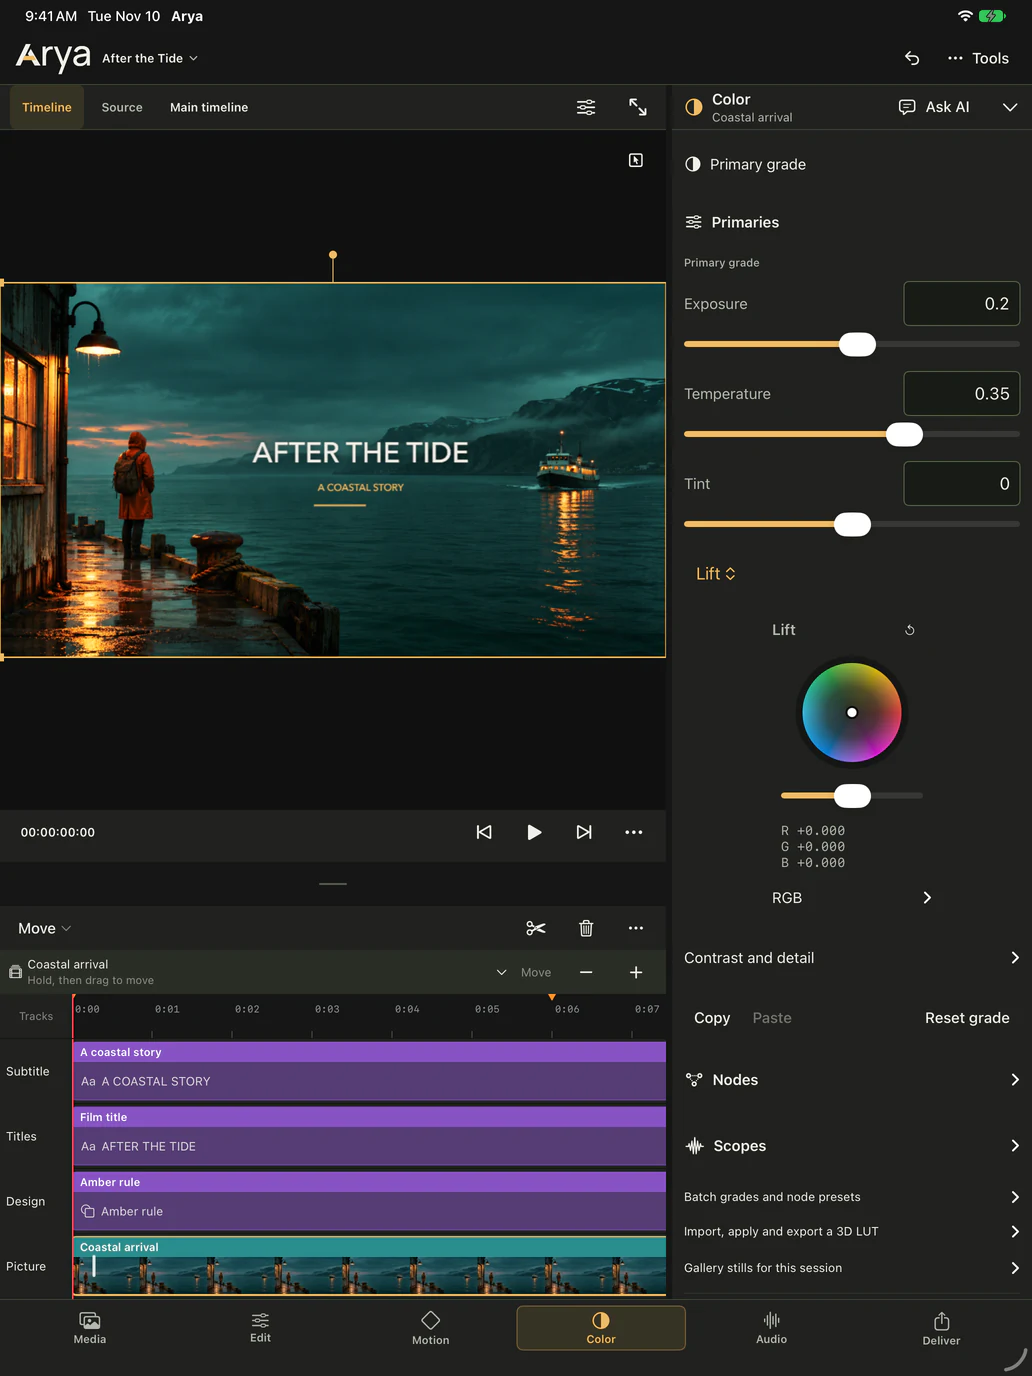
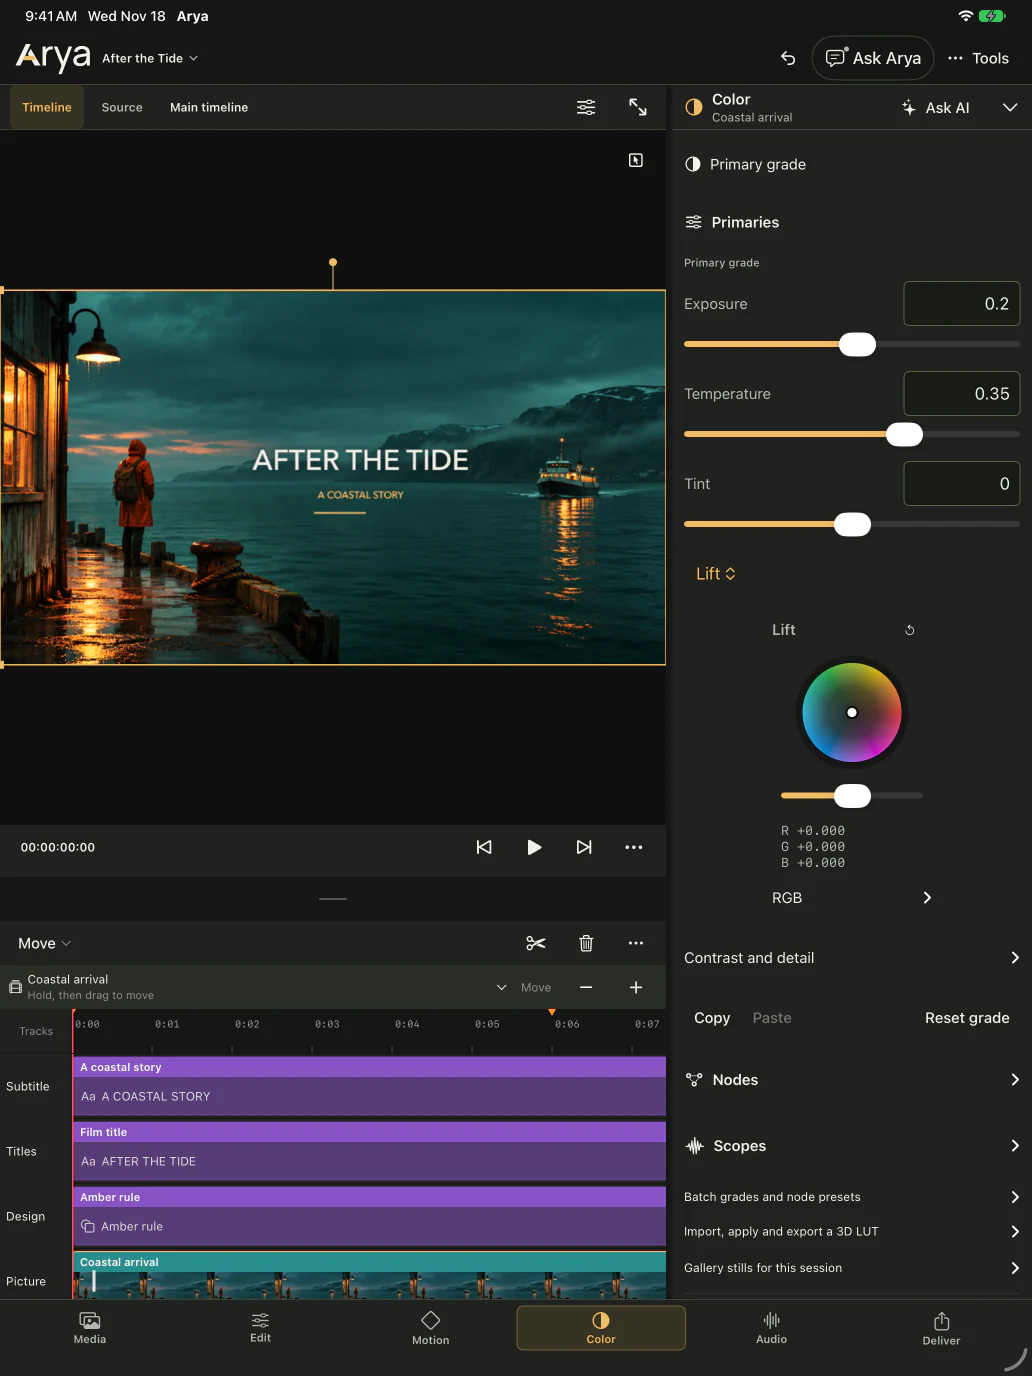
Show the Ask Arya button in the native captures
Replace the Mac Edit, iPhone Edit and iPad Color captures with captures
of the development build that has the labelled Ask Arya button, and add
an iPhone capture of the assistant setup card with a typed, unsent
request. The capture note says these screens come from an unreleased
development build.

diff --git a/site/index.html b/site/index.html
@@ -10,11 +10,11 @@
 </div>
 <div class="wrap"><figure class="family">
 <div class="family-stage">
-<div class="family-layer family-iphone"><a class="family-tag" href="/assets/product/native-iphone-edit.webp?v=ee38dc6aa337" aria-label="Edit on iPhone. Open the capture at full size.">Edit on iPhone</a><picture><img src="/assets/product/native-iphone-edit.webp?v=ee38dc6aa337" alt="Arya on iPhone, Edit page. The viewer shows a coastal scene at dusk with the title After the Tide selected. Below it, a timeline with a Subtitle track and a Titles track, and a tab bar for Media, Edit, Motion, Color, Audio and Deliver." width="660" height="1434" decoding="async"></picture></div>
-<div class="family-layer family-ipad"><a class="family-tag" href="/assets/product/native-ipad-color.webp?v=bde54b33ff79" aria-label="Color on iPad. Open the capture at full size.">Color on iPad</a><picture><source media="(max-width:760px)" srcset="/assets/product/native-ipad-color-inspector.webp?v=de071aebf5d7" width="720" height="1130"><img src="/assets/product/native-ipad-color.webp?v=bde54b33ff79" alt="Arya on iPad, Color page. The viewer shows a coastal scene at dusk under the title After the Tide, beside a Color inspector with Exposure at 0.2, Temperature at 0.35, a Lift wheel and rows for nodes, scopes and LUTs. Below, a four-track timeline and a tab bar for the six pages." width="1032" height="1376" decoding="async"></picture></div>
+<div class="family-layer family-iphone"><a class="family-tag" href="/assets/product/native-iphone-edit.webp?v=5e54c47bf61e" aria-label="Edit on iPhone. Open the capture at full size.">Edit on iPhone</a><picture><img src="/assets/product/native-iphone-edit.webp?v=5e54c47bf61e" alt="Arya on iPhone, Edit page. The top bar has an Ask Arya button. The viewer shows a coastal scene at dusk with the title After the Tide selected. Below it, a timeline with a Subtitle track and a Titles track, and a tab bar for Media, Edit, Motion, Color, Audio and Deliver." width="660" height="1434" decoding="async"></picture></div>
+<div class="family-layer family-ipad"><a class="family-tag" href="/assets/product/native-ipad-color.webp?v=af610521950c" aria-label="Color on iPad. Open the capture at full size.">Color on iPad</a><picture><source media="(max-width:760px)" srcset="/assets/product/native-ipad-color-inspector.webp?v=de071aebf5d7" width="720" height="1130"><img src="/assets/product/native-ipad-color.webp?v=af610521950c" alt="Arya on iPad, Color page. The top bar has an Ask Arya button. The viewer shows a coastal scene at dusk under the title After the Tide, beside a Color inspector with Exposure at 0.2, Temperature at 0.35, a Lift wheel and rows for nodes, scopes and LUTs. Below, a four-track timeline and a tab bar for the six pages." width="1032" height="1376" decoding="async"></picture></div>
 <div class="family-layer family-mac"><a class="family-tag" href="/assets/product/native-mac-color.webp?v=4f8d2dbe3b8d" aria-label="Color on Mac. Open the capture at full size.">Color on Mac</a><picture><source media="(max-width:760px)" srcset="/assets/product/native-mac-color-inspector.webp?v=a91cd5311f17" width="802" height="904"><img src="/assets/product/native-mac-color.webp?v=4f8d2dbe3b8d" alt="Arya on Mac, Color page. The viewer shows a coastal scene at dusk under the title After the Tide. Beside it, a Color inspector with a waveform scope and Lift, Gamma, Gain and Offset wheels. Below, a timeline with a Subtitle track and a Titles track." width="2560" height="1600" fetchpriority="high" decoding="async"></picture></div>
 </div>
-<figcaption class="credit">Captured from Arya 1.1 on Mac, iPad and iPhone, November 2026, with the After the Tide and Motion Study sample projects. The still picture in After the Tide was AI-generated for this demo. Its title, subtitle, rule and camera move are editable Arya layers. The After the Tide screens on Mac come from the Mac App Store build of Arya 1.1.0. Screens in the direct Mac build can differ. The current download is Arya 1.2.0 for iPhone and iPad. Screens in that version can differ.</figcaption>
+<figcaption class="credit">Captured from Arya 1.1 on Mac, iPad and iPhone, November 2026, with the After the Tide and Motion Study sample projects. The still picture in After the Tide was AI-generated for this demo. Its title, subtitle, rule and camera move are editable Arya layers. Apart from the Edit page, the After the Tide screens on Mac come from the Mac App Store build of Arya 1.1.0. Screens in the direct Mac build can differ. The Mac Edit page comes from an unreleased development build of that edition. The screens that show the Ask Arya button come from an unreleased development build. Screens in the released app can differ. The current download is Arya 1.2.0 for iPhone and iPad. Screens in that version can differ.</figcaption>
 </figure></div>
 </section>
 <section class="assistant" id="ai" tabindex="-1" aria-labelledby="ai-heading">
@@ -43,7 +43,7 @@
 </article>
 <article class="chapter chapter-wide" id="edit" aria-labelledby="edit-heading" data-chapter>
 <div class="chapter-head"><h3 id="edit-heading"><em>Edit</em> <span>Cut on a multitrack timeline.</span></h3><p>Blade, ripple, roll, slip and slide on a multitrack timeline, with snapping, markers, automatic proxies, nested compositions and multicam with audio sync for up to nine angles.</p></div>
-<figure class="chapter-figure figure-mac-edit"><a class="figure-link" href="/assets/product/native-mac-edit.webp?v=45b302424d8a"><picture><img src="/assets/product/native-mac-edit.webp?v=45b302424d8a" alt="Arya on Mac, Edit page. A Media panel with one image, the viewer showing a coastal scene at dusk under the title After the Tide, a Project inspector set to 1,920 by 1,080 at 30 frames per second, and a timeline with Subtitle, Titles, Design and Picture tracks." width="2560" height="1600" loading="lazy" decoding="async"></picture></a><figcaption><span class="plate-label">Edit on Mac</span> The Edit page on Mac. Media, viewer, Project inspector and timeline share one window, with the six pages as tabs along the top. The still picture in After the Tide was AI-generated for this demo.</figcaption></figure>
+<figure class="chapter-figure figure-mac-edit"><a class="figure-link" href="/assets/product/native-mac-edit.webp?v=b59ec6219bfa"><picture><img src="/assets/product/native-mac-edit.webp?v=b59ec6219bfa" alt="Arya on Mac, Edit page. The toolbar has Settings and an Ask Arya button marked Not set up. Below it, a Media panel with Photos, Files and Folder and a folder named media holding one image, the viewer showing a coastal scene at dusk with the title After the Tide selected, a Film title inspector with Timing and Transform, and a timeline with Subtitle and Titles tracks." width="2560" height="1600" loading="lazy" decoding="async"></picture></a><figcaption><span class="plate-label">Edit on Mac</span> The Edit page on Mac. Media, viewer, inspector and timeline share one window, with the six pages as tabs along the top and Ask Arya in the toolbar. The still picture in After the Tide was AI-generated for this demo.</figcaption></figure>
 </article>
 <article class="chapter chapter-duo" id="motion" aria-labelledby="motion-heading" data-chapter>
 <div class="chapter-head"><h3 id="motion-heading"><em>Motion</em> <span>Keyframes, expressions and real layers.</span></h3><p>Animate position, scale, rotation and opacity with easing presets or custom curves in the value and speed graphs. Write expressions such as <code>wiggle(2, 30)</code>, parent layers to nulls, draw masks, apply alpha or luma track mattes and drive layers from a point or box tracker.</p></div>

diff --git a/site/assets/product/README.md b/site/assets/product/README.md
@@ -2,7 +2,7 @@
 
 Every image in this folder is a capture of running Arya software, or a frame or clip that Arya rendered. None is a mockup or a recomposition. There are two sets:
 
-- `native-*.webp`, `after-the-tide.mp4` and `after-the-tide-poster.webp` come from the native Mac, iPad and iPhone apps, build 1.1.0 (3), captured in November 2026.
+- `native-*.webp`, `after-the-tide.mp4` and `after-the-tide-poster.webp` come from the native Mac, iPad and iPhone apps, build 1.1.0 (3), captured in November 2026. Four of them come from the 1.3.0 development build at f6fa4d5 instead, captured on 2026-11-18 (see the table).
 - Every other image is a capture of the browser editor (development build, 2026-10-09) or a frame that editor rendered.
 
 The home page leads with the native captures. It uses browser captures only where no native capture of that feature exists yet: the node graph, the transform inspector, the loudness reading, the film in the timeline and the assistant panel. Each figure names the edition it shows.
@@ -14,18 +14,19 @@ The home page leads with the native captures. It uses browser captures only wher
 | File | Capture and treatment |
 | --- | --- |
 | `native-mac-color.webp` | Mac, Color page, whole window, 2560 by 1600. |
-| `native-mac-edit.webp` | Mac, Edit page, whole window, 2560 by 1600. |
+| `native-mac-edit.webp` | Mac, Edit page with Ask Arya in the toolbar, whole window, 2560 by 1600. 1.3.0 development build at f6fa4d5, Mac App Store edition (Mac Catalyst), Release, ad-hoc signed, not submitted. |
 | `native-mac-color-inspector.webp` | Mac, Color page: the inspector panel at its own size. |
 | `native-mac-motion-inspector.webp` | Mac, Motion page: the inspector panel at its own size. |
 | `native-mac-media-panel.webp` | Mac, Edit page: the Media panel at its own size. |
-| `native-ipad-color.webp` | iPad 13-inch, Color page with the primaries open, whole screen at half size. |
+| `native-ipad-color.webp` | iPad 13-inch, Color page with the primaries open, whole screen at half size. 1.3.0 development build at f6fa4d5, App Store edition, Release, simulator. |
 | `native-ipad-color-inspector.webp` | iPad 13-inch, Color page with Curves open: the top of the inspector column at its own size. |
-| `native-iphone-edit.webp` | iPhone 6.9-inch, Edit page, whole screen at half size. |
+| `native-iphone-edit.webp` | iPhone 6.9-inch, Edit page with Ask Arya in the top bar, whole screen at half size. 1.3.0 development build at f6fa4d5, App Store edition, Release, simulator. |
 | `native-iphone-deliver.webp` | iPhone 6.3-inch, Deliver sheet from the export range down, at half size. |
+| `native-iphone-assistant.webp` | iPhone 6.3-inch, Edit page with the assistant open, whole screen at half size. No assistant account was connected: it shows the setup card and a typed request that was not sent, and no reply. 1.3.0 development build at f6fa4d5, App Store edition, Release, simulator. Listed in `native.json`; the home page does not show it yet. |
 | `after-the-tide.mp4` | The 12 second export the iPhone app rendered from the After the Tide project, at 1280 by 720 without sound. |
 | `after-the-tide-poster.webp` | One frame of that export. |
 
-Captures are cropped or scaled down, then converted with `cwebp`. Nothing is drawn over them and none is enlarged. Every capture shows the After the Tide sample project, except `native-mac-motion-inspector.webp`, which shows Motion Study, a generated title over a shape layer. The Mac captures of After the Tide come from the Mac App Store build of 1.1.0 (3). The Motion Study capture comes from the direct build. `link-preview.png` in `assets/brand` uses `native-mac-color-inspector.webp`; its source is `docs/design/link-preview.html`.
+Captures are cropped or scaled down, then converted with `cwebp`. Nothing is drawn over them and none is enlarged. Every capture shows the After the Tide sample project, except `native-mac-motion-inspector.webp`, which shows Motion Study, a generated title over a shape layer. The Mac captures of After the Tide come from the Mac App Store build of 1.1.0 (3), except `native-mac-edit.webp`, which comes from a 1.3.0 development build of that edition. The Motion Study capture comes from the direct build. Images from the 1.3.0 development build carry `"edition": "Development build"` in `native.json` (the Mac one keeps `"Mac App Store"`), so the capture note says they come from a build that is not released. `native.json` and the pages do not name the version number, because the site never names a release that is still being prepared. Their capture records and SHA-256 sums are in `build/arya-1.3.0-campaign/captures/provenance.json`, which is not committed. `link-preview.png` in `assets/brand` uses `native-mac-color-inspector.webp`; its source is `docs/design/link-preview.html`.
 
 ### After the Tide
 
